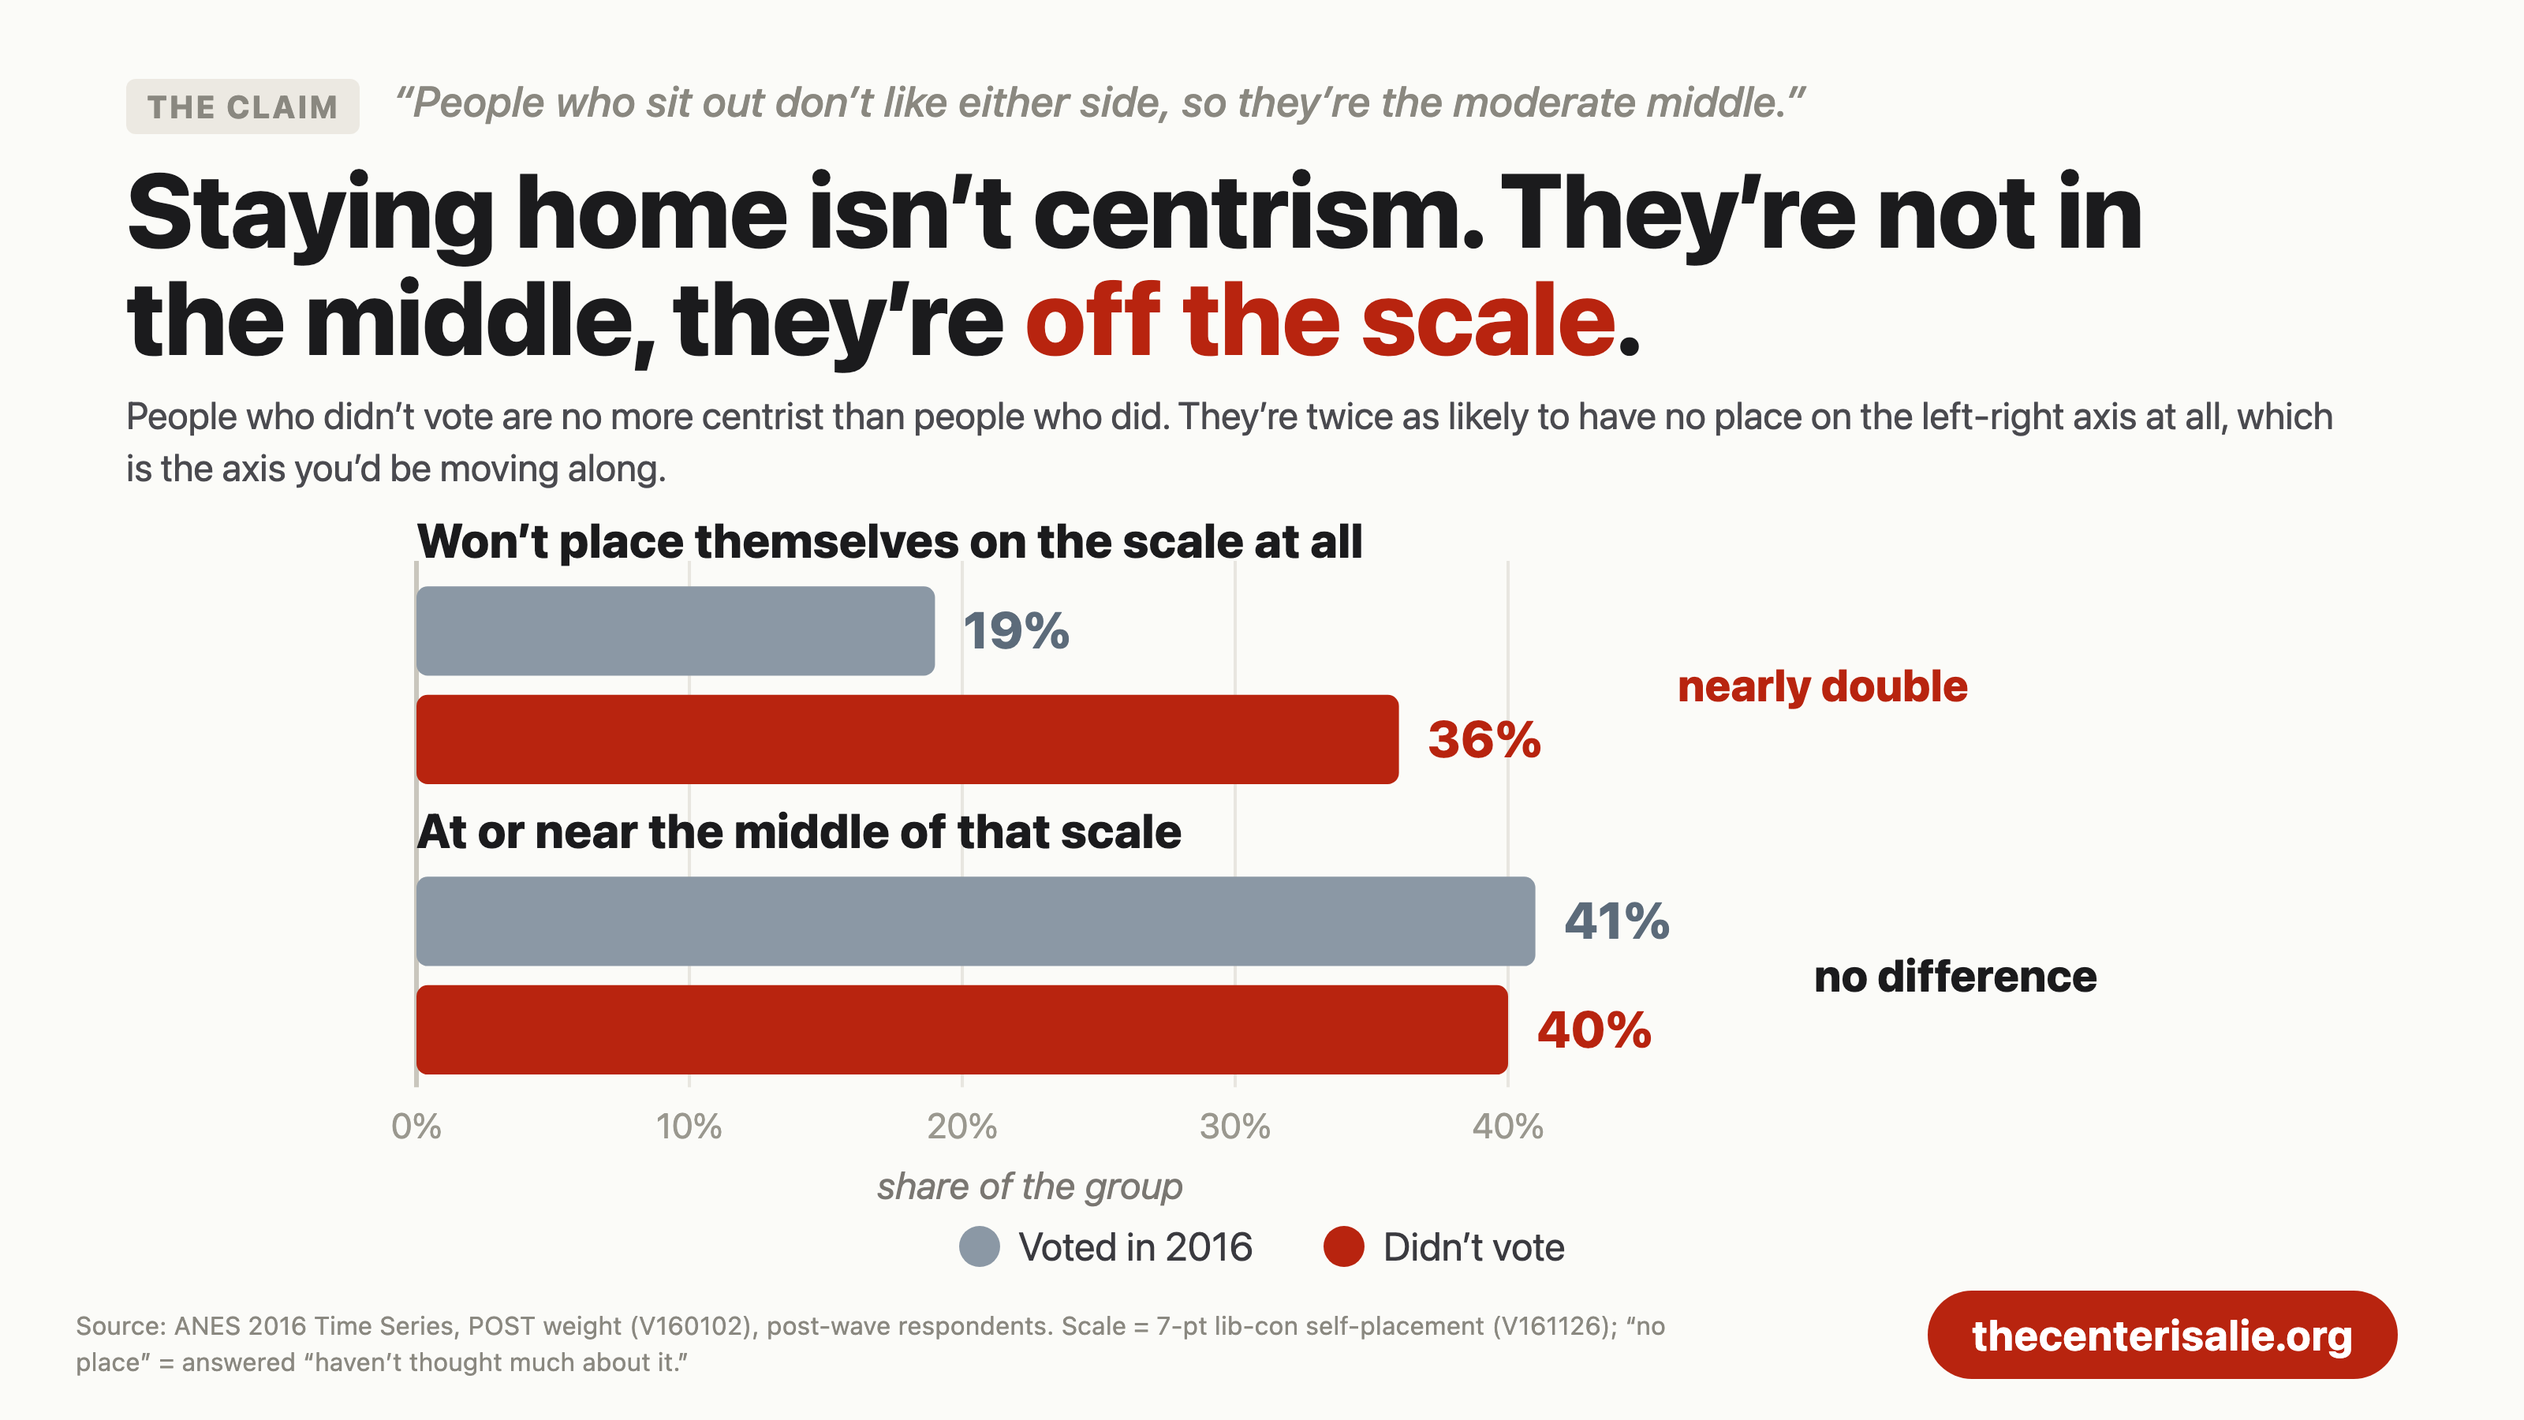
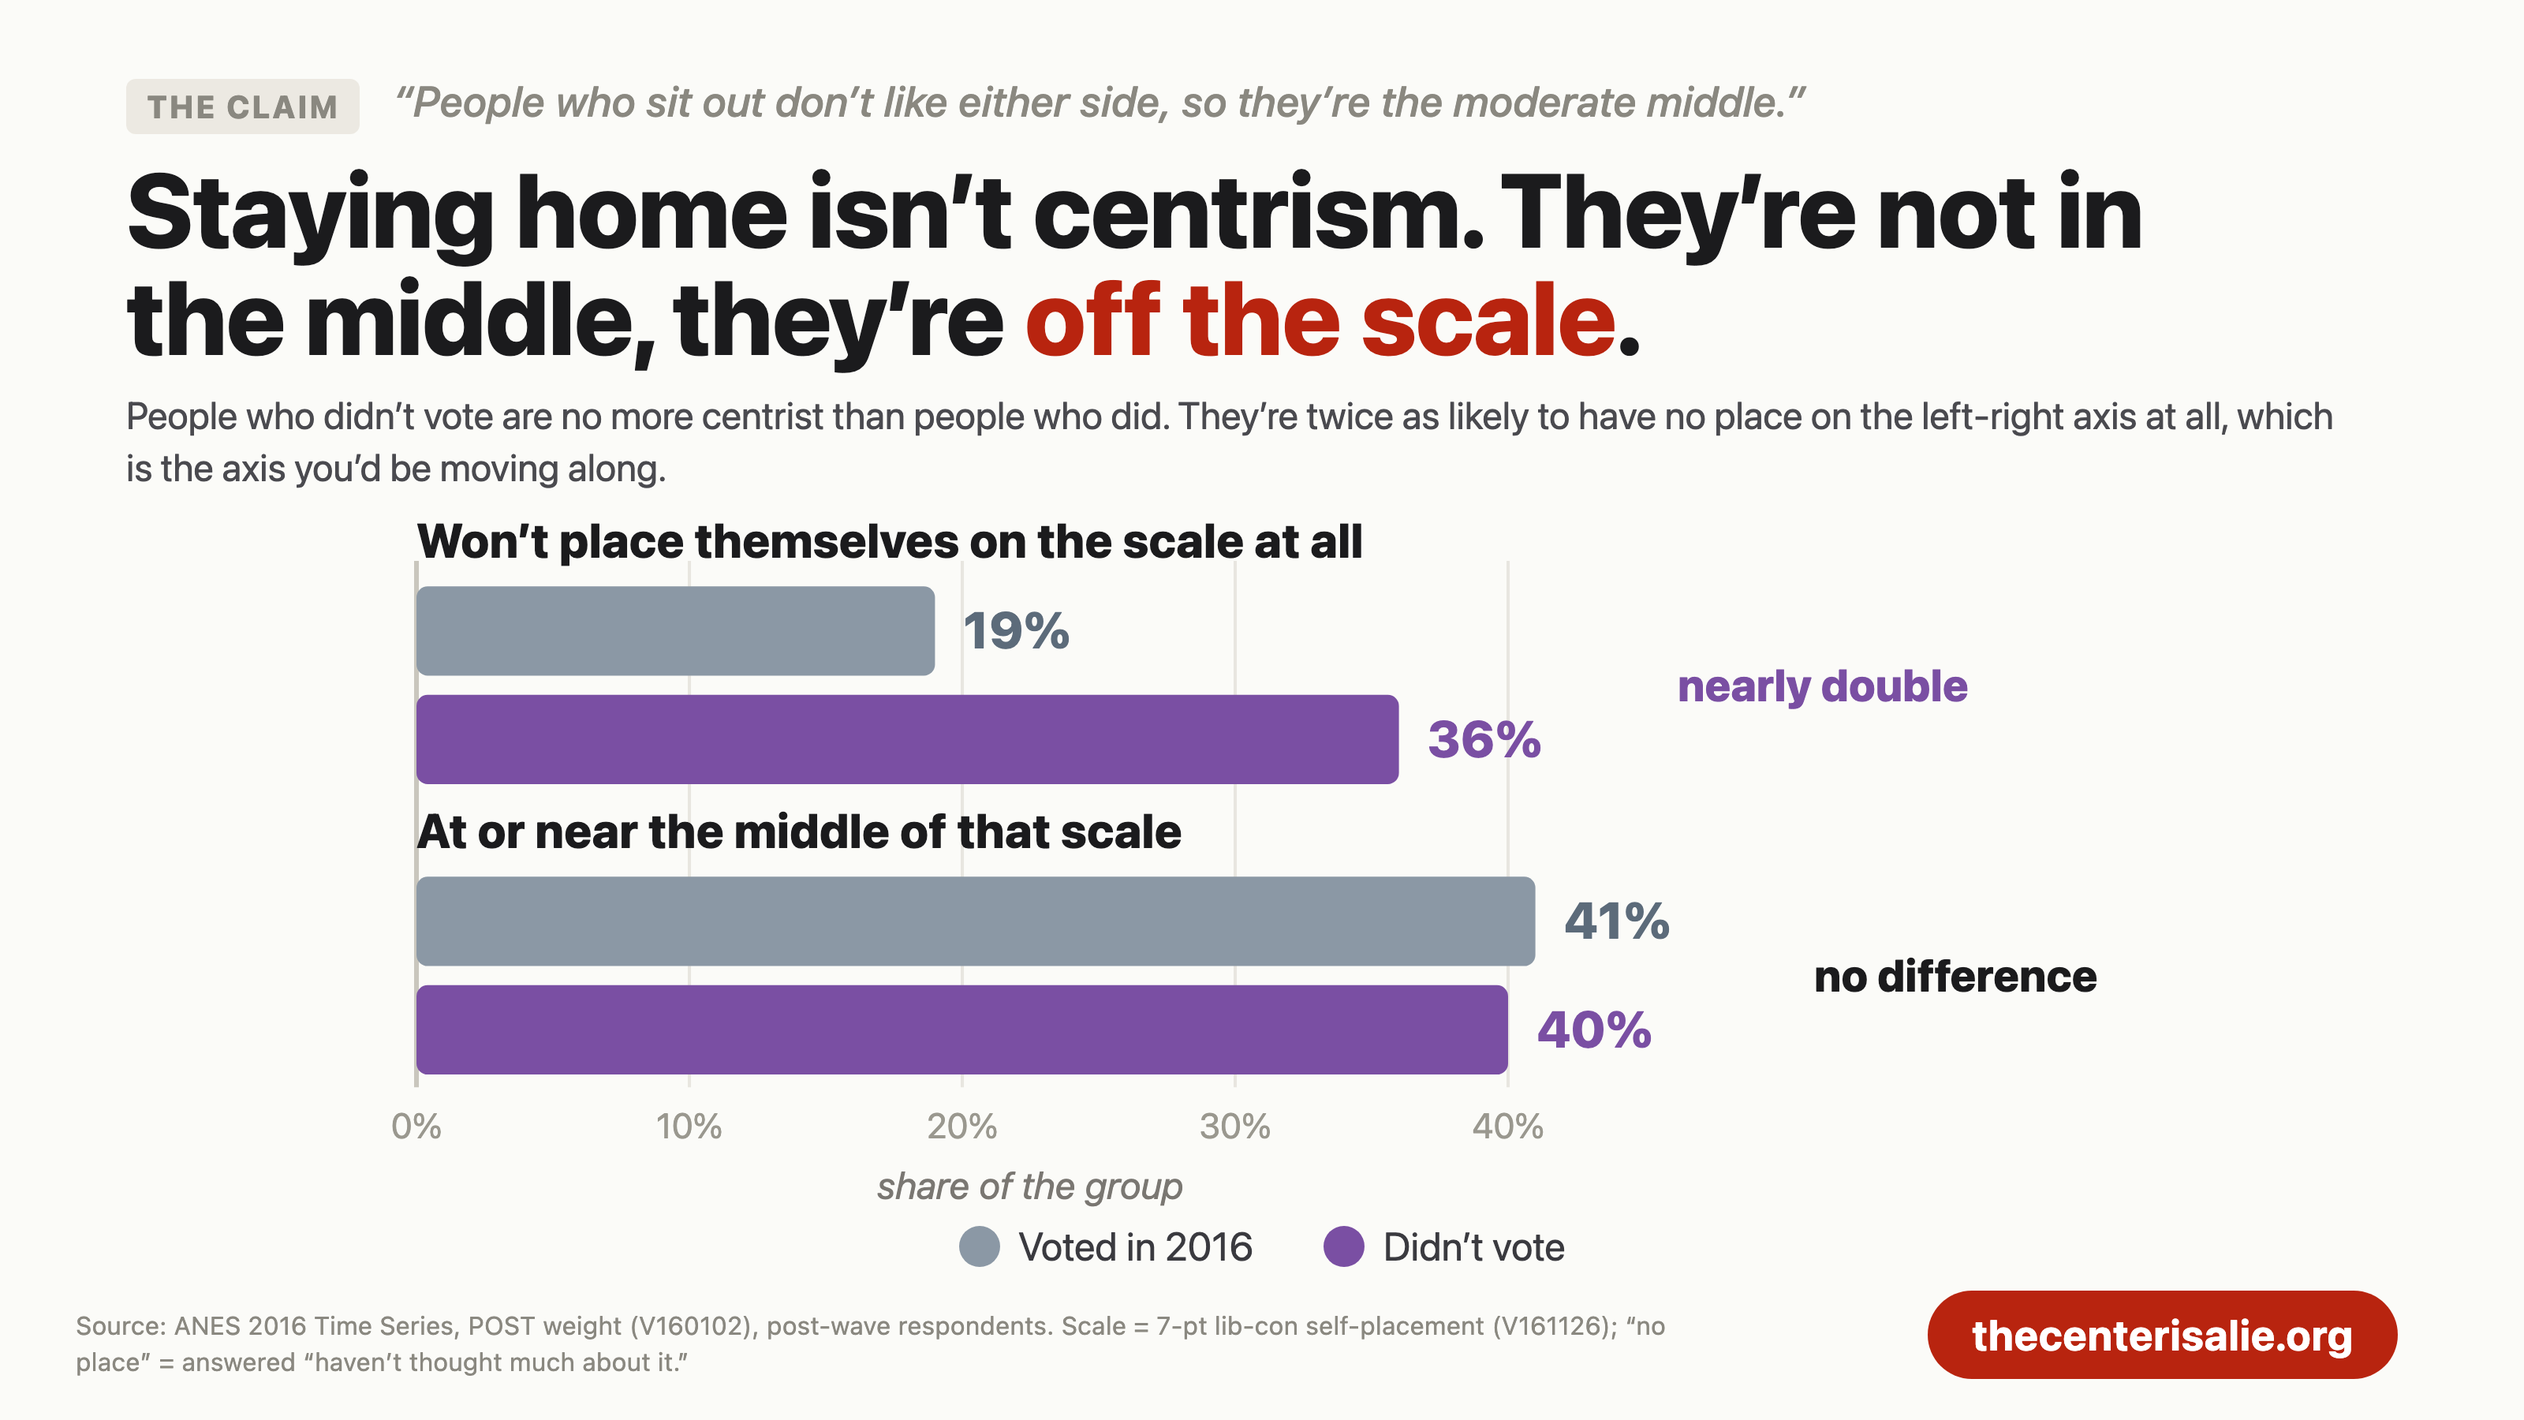
fix(og): rebuild insideoutside as a true 2D mosaic; stop using red for voters
insideoutside is now a real two-dimensional mosaic rather than two stacked
bars. Columns are ideology with width proportional to share of voters; the
vertical split inside each column is that column's own trust split, so every
block's area is its true share. Colour now encodes ideology (left blue, right
red, middle grey, no position blank) and trust is encoded by saturation, with
the high-trust band faded back so the eye stays on the low-trust mass.

Added a second strip showing where the voters who actually switched sides sit
across the same four columns. Note that the canonical n=126 swing base excludes
"haven't thought about it" respondents by construction; including them gives
n=175, and that group is the single largest block of switchers at 33%. Only a
quarter of switchers are the ideological middle.

Colour discipline: red on a voter block reads as "Republican." Swapped the
non-partisan voter categories to purple on mirage (holds an extreme position)
and offthemap (didn't vote). Red stays for the article accent and for genuine
party coding.

diff --git a/web/og-cards/chart-insideoutside.html b/web/og-cards/chart-insideoutside.html
@@ -2,15 +2,15 @@
 <html lang="en"><head><meta charset="utf-8"><link rel="stylesheet" href="./chart-card.css"></head>
 <body>
   <div class="chartcard">
-    <div class="cc-claim"><span class="tag">The claim</span> &ldquo;Run as the safe, credentialed, inside-the-system candidate.&rdquo;</div>
-    <div class="cc-title">The &ldquo;inside the system&rdquo; pitch is aimed at the <span class="hl">smallest quarter</span> of the electorate.</div>
-    <div class="cc-sub">2016 voters by how much they trust government, sized to their real share. Three in four say Washington is run by a few big interests and wastes their money. They sit on the left, the right, and nowhere on the scale at all.</div>
+    <div class="cc-claim"><span class="tag">The claim</span> &ldquo;Run to the middle. That&rsquo;s where the winnable voters are.&rdquo;</div>
+    <div class="cc-title">Low trust <span class="hl">swamps</span> the electorate, on the left and the right alike.</div>
+    <div class="cc-sub">Every block is sized to its real share of 2016 voters. Distrust is the dominant fact in all four columns, and the voters who actually switched sides are spread across every one of them.</div>
 
-    <div class="cc-chart"><svg id="mo" viewBox="0 0 1240 430" role="img"
-      aria-label="Mosaic of 2016 voters. Low-trust band is 75 percent of voters, spanning left 18, middle 14, no position 13 and right 30 percent. High-trust band is 25 percent, spanning left 10, middle 5, no position 6 and right 5 percent."></svg></div>
+    <div class="cc-chart"><svg id="mo" viewBox="0 0 1240 442" role="img"
+      aria-label="Mosaic of 2016 voters by ideology and trust. Left 27 percent of voters, 65 percent of them low trust. Middle 19 percent, 73 percent low trust. Right 35 percent, 86 percent low trust. No position 19 percent, 70 percent low trust. Below, the voters who switched sides split 14 percent left, 24 middle, 29 right, 33 no position."></svg></div>
 
     <div class="cc-foot">
-      <div class="cc-source">Source: ANES 2016 Time Series, POST weight (V160102), n=2,641 voters. Trust = 3-item composite (V161215/V161216/V161217, 0&ndash;1); low = &le;0.25, the same cutpoint as the published trust terciles. Ideology = 7-pt lib-con (V161126); &ldquo;no position&rdquo; = haven&rsquo;t thought much about it. Cell area is proportional to share of voters.</div>
+      <div class="cc-source">Source: ANES 2016 Time Series, POST weight (V160102); n=2,641 voters, n=175 switchers. Trust = 3-item composite (V161215/V161216/V161217, 0&ndash;1); low = &le;0.25, the cutpoint already used for the published trust terciles. Ideology = 7-pt lib-con (V161126); &ldquo;no position&rdquo; = haven&rsquo;t thought much about it. Switcher = crossed party lines in 2016 (V161158x &times; V162034a). Block area is proportional to share.</div>
       <div class="cc-btn">thecenterisalie.org</div>
     </div>
   </div>
@@ -21,41 +21,57 @@
     const el = (t, a) => { const n = document.createElementNS(NS, t); for (const k in a) n.setAttribute(k, a[k]); return n; };
     const txt = (a, s) => { const t = el('text', a); t.textContent = s; svg.appendChild(t); return t; };
 
-    // Weighted % of all 2016 voters. Row heights and cell widths are both
-    // proportional, so every cell's AREA is its share of the electorate.
-    const rows = [
-      { key: 'low',  label: 'LOW TRUST', note: 'the outsider’s electorate',
-        cells: [['Left', 17.65], ['Middle', 14.16], ['No position', 13.22], ['Right', 29.61]] },
-      { key: 'high', label: 'HIGH TRUST', note: 'who the “safe” pitch speaks to',
-        cells: [['Left', 9.60], ['Middle', 5.17], ['No position', 5.66], ['Right', 4.94]] },
+    // Columns = ideology, width proportional to share of voters.
+    // Within a column, the vertical split is that column's own trust split,
+    // so every block's AREA is its true share of the electorate.
+    // Colour = ideology (left blue, right red, middle grey, no position blank).
+    // Trust = saturation: low trust solid, high trust faded back.
+    const cols = [
+      { name: 'Left',        col: 27.3, low: 17.6, high: 9.6, c: '#2c5b9c', swing: 14.1 },
+      { name: 'Middle',      col: 19.3, low: 14.2, high: 5.2, c: '#8a8880', swing: 24.1 },
+      { name: 'Right',       col: 34.5, low: 29.6, high: 4.9, c: '#b8240f', swing: 28.6 },
+      { name: 'No position', col: 18.9, low: 13.2, high: 5.7, c: '#ffffff', swing: 33.2 },
     ];
-    const X0 = 215, X1 = 1220, W = X1 - X0, TOP = 20, H = 330, GAP = 10;
-    const total = rows.reduce((a, r) => a + r.cells.reduce((b, c) => b + c[1], 0), 0);
-    const rowTot = rows.map((r) => r.cells.reduce((b, c) => b + c[1], 0));
+    const X0 = 78, X1 = 1200, W = X1 - X0, PAD = 5;
+    const TOP = 52, H = 244;
+    const totCol = cols.reduce((a, c) => a + c.col, 0);
 
-    let y = TOP;
-    rows.forEach((r, ri) => {
-      const rh = (rowTot[ri] / total) * (H - GAP);
-      const hot = r.key === 'low';
-      let x = X0;
-      r.cells.forEach(([name, v], ci) => {
-        const cw = (v / rowTot[ri]) * W - 4;
-        const shade = hot ? ['#d8593f', '#c93a20', '#a81d0a', '#8d1706'][ci] : ['#a7b3bd', '#93a1ad', '#7f8f9d', '#6d7d8c'][ci];
-        svg.appendChild(el('rect', { x, y, width: cw, height: rh, rx: 5, fill: shade }));
-        if (rh > 44) {
-          txt({ x: x + cw / 2, y: y + rh / 2 - 2, 'text-anchor': 'middle', fill: '#fff', 'font-size': 25, 'font-weight': 800 }, v.toFixed(0) + '%');
-          txt({ x: x + cw / 2, y: y + rh / 2 + 26, 'text-anchor': 'middle', fill: '#ffffffcc', 'font-size': 19 }, name);
-        } else {
-          txt({ x: x + cw / 2, y: y + rh / 2 + 8, 'text-anchor': 'middle', fill: '#fff', 'font-size': 22, 'font-weight': 800 }, v.toFixed(0) + '%');
-        }
-        x += cw + 4;
-      });
-      // row label + running total, outside the bar on the left
-      txt({ x: X0 - 20, y: y + rh / 2 - 4, 'text-anchor': 'end', fill: hot ? '#b8240f' : '#7a8894', 'font-size': 25, 'font-weight': 800 }, r.label);
-      txt({ x: X0 - 20, y: y + rh / 2 + 24, 'text-anchor': 'end', fill: '#8a887f', 'font-size': 19 }, Math.round(rowTot[ri]) + '% of voters');
-      y += rh + GAP;
+    let x = X0;
+    cols.forEach((c) => {
+      const cw = (c.col / totCol) * W - PAD;
+      const lowH = (c.low / c.col) * H, highH = H - lowH;
+      const blank = c.c === '#ffffff';
+
+      // column header
+      txt({ x: x + cw / 2, y: TOP - 26, 'text-anchor': 'middle', fill: blank ? '#6b6b70' : c.c, 'font-size': 27, 'font-weight': 800 }, c.name);
+      txt({ x: x + cw / 2, y: TOP - 4, 'text-anchor': 'middle', fill: '#9a988f', 'font-size': 20 }, c.col.toFixed(0) + '% of voters');
+
+      // low trust — solid, full weight
+      svg.appendChild(el('rect', { x, y: TOP, width: cw, height: lowH, rx: 5, fill: c.c,
+        stroke: blank ? '#c9c6bd' : 'none', 'stroke-width': blank ? 2 : 0 }));
+      txt({ x: x + cw / 2, y: TOP + lowH / 2 + 2, 'text-anchor': 'middle', fill: blank ? '#3a3a3f' : '#fff', 'font-size': 30, 'font-weight': 800 }, c.low.toFixed(0) + '%');
+      txt({ x: x + cw / 2, y: TOP + lowH / 2 + 28, 'text-anchor': 'middle', fill: blank ? '#7a7772' : '#ffffffcc', 'font-size': 19 }, 'low trust');
+
+      // high trust — same hue, faded so the eye stays on the low band
+      svg.appendChild(el('rect', { x, y: TOP + lowH + 3, width: cw, height: highH - 3, rx: 5, fill: c.c,
+        'fill-opacity': blank ? 0.35 : 0.22, stroke: blank ? '#e2dfd7' : 'none', 'stroke-width': blank ? 2 : 0 }));
+      txt({ x: x + cw / 2, y: TOP + lowH + highH / 2 + 6, 'text-anchor': 'middle', fill: '#6b6b70', 'font-size': 22, 'font-weight': 700 }, c.high.toFixed(0) + '%');
+      if (highH > 62) txt({ x: x + cw / 2, y: TOP + lowH + highH / 2 + 28, 'text-anchor': 'middle', fill: '#9a988f', 'font-size': 18 }, 'high trust');
+
+      x += cw + PAD;
     });
 
-    txt({ x: X0, y: TOP + H + 40, 'text-anchor': 'start', fill: '#7a7772', 'font-size': 22, 'font-style': 'italic' }, 'Every band spans the whole left-right axis. The split that matters runs the other way.');
+    // Where the switchers actually are — same colours, widths by their own split.
+    const SY = TOP + H + 56;
+    txt({ x: X0, y: SY - 12, 'text-anchor': 'start', fill: '#1b1b1d', 'font-size': 23, 'font-weight': 800 }, 'The voters who actually switched sides in 2016:');
+    let sx = X0;
+    cols.forEach((c) => {
+      const sw = (c.swing / 100) * W - PAD, blank = c.c === '#ffffff';
+      svg.appendChild(el('rect', { x: sx, y: SY, width: sw, height: 46, rx: 5, fill: c.c,
+        stroke: blank ? '#c9c6bd' : 'none', 'stroke-width': blank ? 2 : 0 }));
+      txt({ x: sx + sw / 2, y: SY + 31, 'text-anchor': 'middle', fill: blank ? '#3a3a3f' : '#fff', 'font-size': 24, 'font-weight': 800 }, c.swing.toFixed(0) + '%');
+      sx += sw + PAD;
+    });
+    txt({ x: X0, y: SY + 78, 'text-anchor': 'start', fill: '#7a7772', 'font-size': 21, 'font-style': 'italic' }, 'The biggest block of switchers holds no left-right position at all. Only a quarter of them are the middle.');
   </script>
 </body></html>

diff --git a/web/og-cards/chart-offthemap.html b/web/og-cards/chart-offthemap.html
@@ -11,7 +11,7 @@
 
     <div class="cc-legend">
       <div class="item"><span class="dot" style="background:#8b98a5"></span>Voted in 2016</div>
-      <div class="item"><span class="dot" style="background:#b8240f"></span>Didn&rsquo;t vote</div>
+      <div class="item"><span class="dot" style="background:#7a4fa3"></span>Didn&rsquo;t vote</div>
     </div>
 
     <div class="cc-foot">
@@ -44,14 +44,14 @@
     groups.forEach((g, i) => {
       const gy = y0 + i * (groupH + groupGap);
       txt({ x: X0, y: gy - 18, 'text-anchor': 'start', fill: '#1b1b1d', 'font-size': 30, 'font-weight': 800 }, g.name);
-      [['voted', '#8b98a5', gy], ['no', '#b8240f', gy + barH + gap]].forEach(([k, col, by]) => {
+      [['voted', '#8b98a5', gy], ['no', '#7a4fa3', gy + barH + gap]].forEach(([k, col, by]) => {
         const w = Math.max(g[k] * sc, 4);
         svg.appendChild(el('rect', { x: X0, y: by, width: w, height: barH, rx: 7, fill: col }));
-        txt({ x: X0 + w + 18, y: by + barH - 17, fill: col === '#b8240f' ? '#b8240f' : '#5c6b7a', 'font-size': 32, 'font-weight': 800 }, g[k] + '%');
+        txt({ x: X0 + w + 18, y: by + barH - 17, fill: col === '#7a4fa3' ? '#7a4fa3' : '#5c6b7a', 'font-size': 32, 'font-weight': 800 }, g[k] + '%');
       });
       // verdict on the pair, parked clear of the bar ends
       const vx = X0 + Math.max(g.voted, g.no) * sc + 175;
-      txt({ x: vx, y: gy + groupH / 2 + 10, 'text-anchor': 'start', fill: i === 1 ? '#1b1b1d' : '#b8240f', 'font-size': 28, 'font-weight': 800 }, g.note);
+      txt({ x: vx, y: gy + groupH / 2 + 10, 'text-anchor': 'start', fill: i === 1 ? '#1b1b1d' : '#7a4fa3', 'font-size': 28, 'font-weight': 800 }, g.note);
     });
   </script>
 </body></html>

diff --git a/web/og-cards/chart-mirage.html b/web/og-cards/chart-mirage.html
@@ -10,7 +10,7 @@
       aria-label="Of 100 voters who crossed party lines in 2016, 92 hold at least one extreme issue position and 8 are centrist across the board"></svg></div>
 
     <div class="cc-legend">
-      <div class="item"><span class="dot" style="background:#b8240f"></span>Holds at least one hard-left or hard-right position (92)</div>
+      <div class="item"><span class="dot" style="background:#7a4fa3"></span>Holds at least one hard-left or hard-right position (92)</div>
       <div class="item"><span class="dot" style="background:#c9c7bf"></span>Centrist on every issue (8)</div>
     </div>
 
@@ -30,7 +30,7 @@
     for (let i = 0; i < 100; i++) {
       const cx = x0 + (i % COLS) * sx, cy = y0 + ((i / COLS) | 0) * sy;
       const centrist = i >= 92;
-      svg.appendChild(el('circle', { cx, cy, r, fill: centrist ? '#c9c7bf' : '#b8240f' }));
+      svg.appendChild(el('circle', { cx, cy, r, fill: centrist ? '#c9c7bf' : '#7a4fa3' }));
     }
   </script>
 </body></html>
